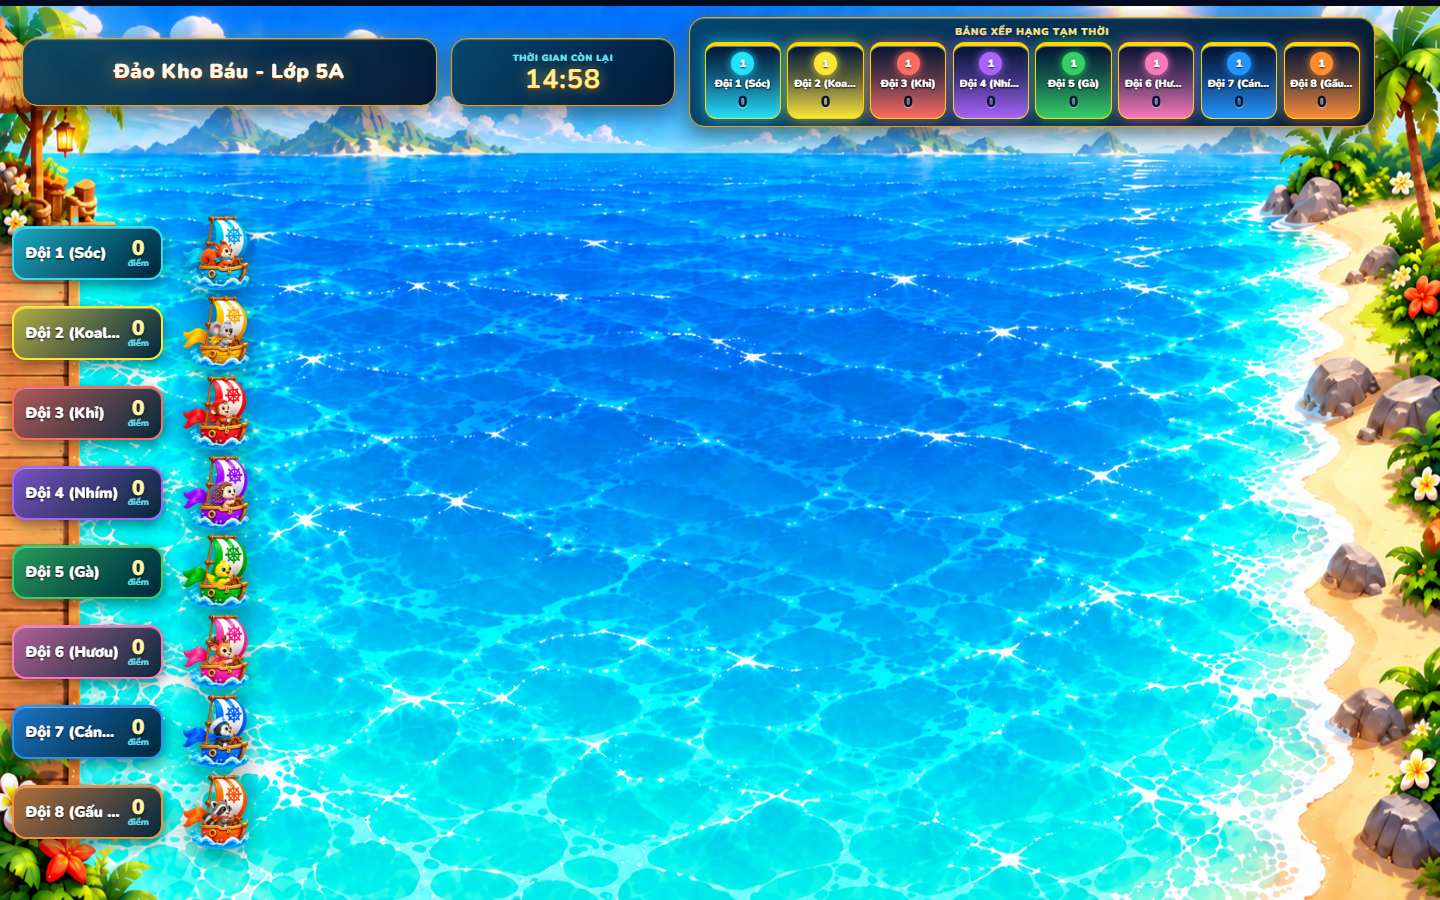
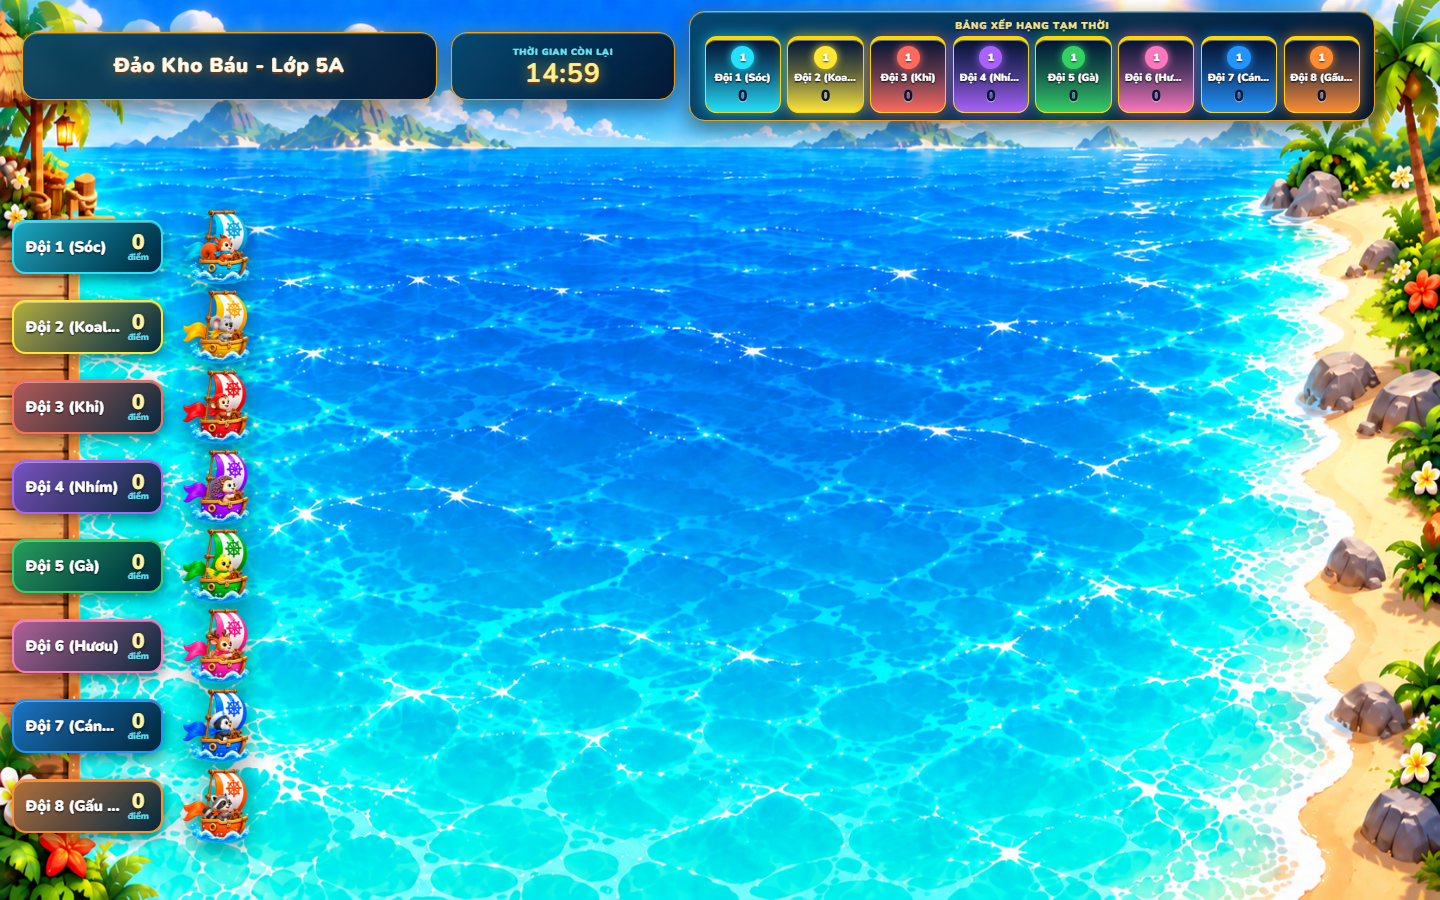
fix: refresh competition previews and garden layout

diff --git a/src/modules/team-competition.js b/src/modules/team-competition.js
@@ -83,6 +83,7 @@
         Object.freeze([489, 503, 502, 467, 420, 456, 515, 464])
     ]);
     const TEAM_IDENTITY_COLORS = Object.freeze(['#22d3ee', '#facc15', '#fb7185', '#a78bfa', '#4ade80', '#f472b6', '#60a5fa', '#fb923c']);
+    const GARDEN_TOP_ROW_OFFSET_PX = 50;
 
     function getGardenTeamPosition(teamIndex, totalTeams) {
         if (totalTeams <= 4) {
@@ -95,7 +96,7 @@
             const leftPct = (positionsByCount[totalTeams] && positionsByCount[totalTeams][teamIndex]) !== undefined
                 ? positionsByCount[totalTeams][teamIndex]
                 : (totalTeams === 1 ? 56 : 33 + (teamIndex / Math.max(1, totalTeams - 1)) * 51);
-            return { row: 1, topPct: 61, leftPct, scale: 1.0, zIndex: 15 };
+            return { row: 1, topPct: 61, topOffsetPx: 0, leftPct, scale: 1.0, zIndex: 15 };
         }
         let countRow1, countRow2;
         if (totalTeams === 8) { countRow1 = 4; countRow2 = 4; }
@@ -108,6 +109,21 @@
         }
         const isRow1 = teamIndex < countRow1;
         const rowIndex = isRow1 ? teamIndex : teamIndex - countRow1;
+        // Alternate the 6- and 8-team rows on one shared grid while keeping the
+        // combined layout centered across the garden.
+        let interleavedPositions = null;
+        if (totalTeams === 8) interleavedPositions = [[10, 33, 56, 79], [21, 44, 67, 90]];
+        else if (totalTeams === 6) interleavedPositions = [[10, 42, 74], [26, 58, 90]];
+        if (interleavedPositions) {
+            return {
+                row: isRow1 ? 1 : 2,
+                topPct: isRow1 ? 50 : 94,
+                topOffsetPx: isRow1 ? GARDEN_TOP_ROW_OFFSET_PX : 0,
+                leftPct: interleavedPositions[isRow1 ? 0 : 1][rowIndex],
+                scale: 1.0,
+                zIndex: isRow1 ? 12 : 22
+            };
+        }
 
         if (isRow1) {
             let leftPct;
@@ -123,16 +139,17 @@
             } else {
                 leftPct = 58;
             }
-            return { row: 1, topPct: 52, leftPct, scale: 1.0, zIndex: 12 };
+            return {
+                row: 1,
+                topPct: 50,
+                topOffsetPx: GARDEN_TOP_ROW_OFFSET_PX,
+                leftPct,
+                scale: 1.0,
+                zIndex: 12
+            };
         } else {
             let leftPct;
-            if (countRow1 === 4 && countRow2 === 4) {
-                const positions = [14, 38, 62, 86];
-                leftPct = positions[rowIndex];
-            } else if (countRow1 === 4 && countRow2 === 3) {
-                const positions = [26, 50, 74];
-                leftPct = positions[rowIndex];
-            } else if (countRow1 === 3 && countRow2 === 3) {
+            if (countRow1 === 4 && countRow2 === 3) {
                 const positions = [26, 50, 74];
                 leftPct = positions[rowIndex];
             } else if (countRow1 === 3 && countRow2 === 2) {
@@ -141,7 +158,7 @@
             } else {
                 leftPct = 25 + (rowIndex / Math.max(1, countRow2 - 1)) * 50;
             }
-            return { row: 2, topPct: 86, leftPct, scale: 1.0, zIndex: 22 };
+            return { row: 2, topPct: 94, topOffsetPx: 0, leftPct, scale: 1.0, zIndex: 22 };
         }
     }
 

diff --git a/src/main.js b/src/main.js
@@ -7705,10 +7705,7 @@ const app = {
                         const potScaleX = app.teamCompetition.getGardenPotScaleX(lane.number, stage);
                         const potAlt = `Cây Tri Thức của ${teamName} (giai đoạn ${stage}/10)`;
                         const ariaDesc = `${teamName}: ${score} trên 10 điểm, giai đoạn ${stage}/10, hạng tạm thời ${rank}`;
-                        const isFinished = stage >= 10;
-                        const finishBadgeHtml = isFinished ? `<div class="team-garden-finish-badge">🏆 Trĩu quả</div>` : '';
-
-                        return `<article class="team-stadium-lane team-stadium-lane--garden team-stadium-lane--${lane.color} team-stadium-lane--${teamStatusClass}" data-stadium-lane="${lane.number}" style="--garden-left:${gardenPos.leftPct.toFixed(2)}%; --garden-top:${gardenPos.topPct.toFixed(2)}%; --garden-scale:${gardenPos.scale}; --garden-z:${gardenPos.zIndex}" aria-label="${ariaDesc}"><div class="team-garden-pot"><div class="team-garden-pot__plant"><div class="team-garden-pot__shadow"></div><img class="team-stadium-lane__vehicle team-garden-pot__img" src="${potAsset}" alt="${potAlt}" style="--garden-pot-scale-x:${potScaleX}" loading="eager" decoding="async" />${finishBadgeHtml}</div><div class="team-garden-pot__badge team-garden-pot__badge--${lane.color}"><span class="team-garden-pot__rank">${rank}</span><div class="team-garden-pot__info"><strong class="team-garden-pot__name">${teamName}</strong><div class="team-garden-pot__score"><b>${score}</b><small>Điểm</small></div></div></div></div></article>`;
+                        return `<article class="team-stadium-lane team-stadium-lane--garden team-stadium-lane--${lane.color} team-stadium-lane--${teamStatusClass}" data-stadium-lane="${lane.number}" style="--garden-left:${gardenPos.leftPct.toFixed(2)}%; --garden-top:${gardenPos.topPct.toFixed(2)}%; --garden-offset-y:${gardenPos.topOffsetPx || 0}px; --garden-scale:${gardenPos.scale}; --garden-z:${gardenPos.zIndex}" aria-label="${ariaDesc}"><div class="team-garden-pot"><div class="team-garden-pot__plant"><div class="team-garden-pot__shadow"></div><img class="team-stadium-lane__vehicle team-garden-pot__img" src="${potAsset}" alt="${potAlt}" style="--garden-pot-scale-x:${potScaleX}" loading="eager" decoding="async" /></div><div class="team-garden-pot__badge team-garden-pot__badge--${lane.color}"><span class="team-garden-pot__rank">${rank}</span><div class="team-garden-pot__info"><strong class="team-garden-pot__name">${teamName}</strong><div class="team-garden-pot__score"><b>${score}</b><small>Điểm</small></div></div></div></div></article>`;
                     }
 
                     const vehicleInfo = app.teamCompetition.resolvePresentationTeamAvatar(presentationTheme, lane);

diff --git a/src/style.css b/src/style.css
@@ -7856,7 +7856,7 @@ input[type="text"], input[type="password"], select, textarea {
 #treasure-modal.team-board-fullscreen .team-race-stadium--knowledge-garden .team-stadium-lane--garden {
     position: absolute !important;
     left: var(--garden-left) !important;
-    top: var(--garden-top) !important;
+    top: calc(var(--garden-top) + var(--garden-offset-y, 0px)) !important;
     transform: translate(-50%, -85%) scale(var(--garden-scale)) !important;
     z-index: var(--garden-z) !important;
     width: clamp(124px, 10.5vw, 160px) !important;
@@ -7920,33 +7920,8 @@ input[type="text"], input[type="password"], select, textarea {
 }
 
 #treasure-modal.team-board-fullscreen .team-race-stadium--knowledge-garden .team-garden-pot__img {
-    transform: scaleX(var(--garden-pot-scale-x, 1)) !important;
+    transform: scale(var(--garden-pot-image-scale, 1.5)) scaleX(var(--garden-pot-scale-x, 1)) !important;
     transform-origin: center bottom !important;
-}
-
-.team-garden-finish-badge {
-    position: absolute;
-    top: 6%;
-    left: 50%;
-    transform: translateX(-50%);
-    background: linear-gradient(135deg, #15803d 0%, #22c55e 100%);
-    color: #ffffff;
-    font-size: 0.72rem;
-    font-weight: 900;
-    padding: 3px 10px;
-    border-radius: 9999px;
-    border: 1.5px solid #ffffff;
-    box-shadow: 0 4px 14px rgba(21, 128, 61, 0.45), 0 0 10px rgba(34, 197, 94, 0.35);
-    text-transform: uppercase;
-    white-space: nowrap;
-    z-index: 10;
-    letter-spacing: 0.03em;
-    animation: garden-badge-bounce 1.6s ease-in-out infinite alternate;
-}
-
-@keyframes garden-badge-bounce {
-    0% { transform: translateX(-50%) translateY(0); }
-    100% { transform: translateX(-50%) translateY(-5px); }
 }
 
 .team-garden-pot__badge {
